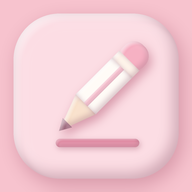
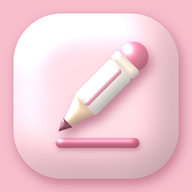
アイコンの立体感を強化（ドーム状の陰影とツヤ）

diff --git a/sw.js b/sw.js
@@ -1,5 +1,5 @@
 // iパス 60日 service worker: keeps the app and question data on the phone for offline use.
-const VERSION = "ipass-e7048c8364";
+const VERSION = "ipass-3c1b788283";
 const SHELL = ["./", "index.html", "manifest.webmanifest", "icons/icon-192.png", "icons/icon-512.png", "icons/apple-touch-icon.png"];
 const DATA = ["data/2026r08.json", "data/2025r07.json", "data/2024r06.json"];
 
